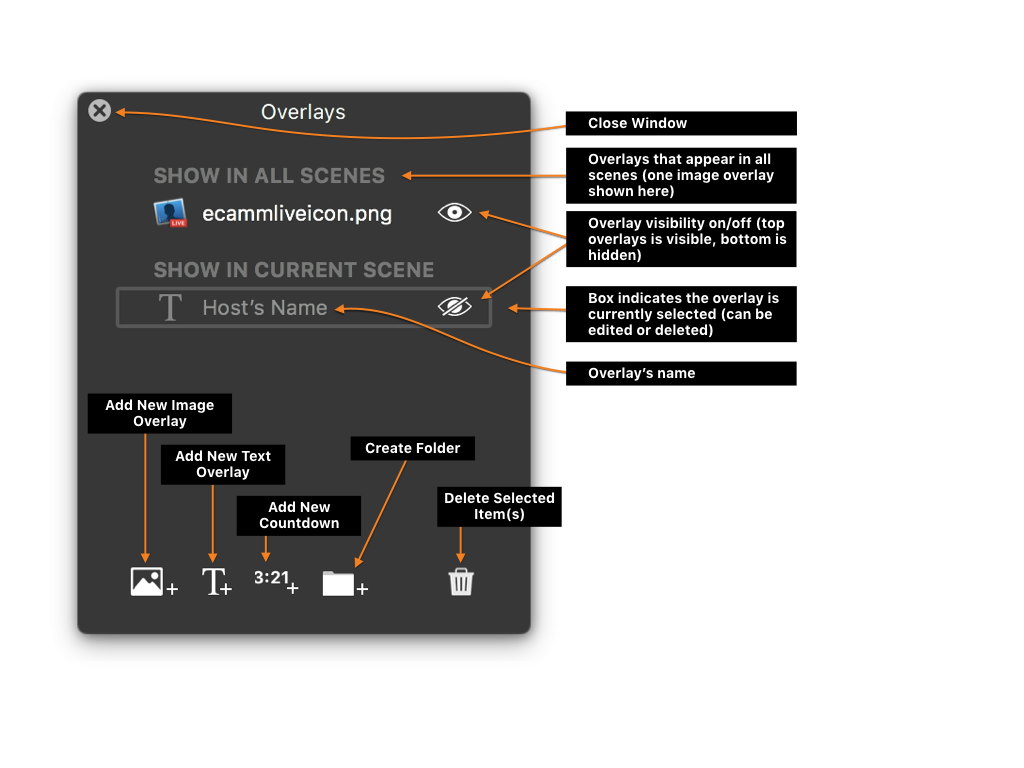
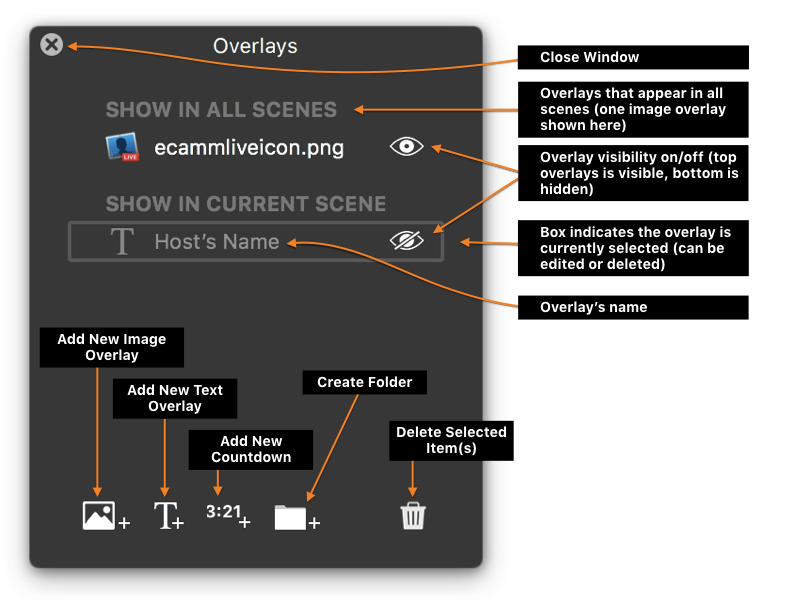
Mostly link repairs (after manual pages changed), some image improvements.

diff --git a/docs/_ecamm-live-first-facebook-live/005-second-broadcast-overlays-scenes.md b/docs/_ecamm-live-first-facebook-live/005-second-broadcast-overlays-scenes.md
@@ -23,11 +23,11 @@ Let's make 3 Scenes for your broadcast, with a few Overlays each.
 
 Open your Scenes window if it's not already visible. At the top of your display, select <samp>Scenes</samp> menu ➝ <samp>Show Scenes Window</samp>. There is a default scene available. You can rename it by clicking directly on the Scene name twice. Give your Scene an obvious, unique name like "Introduction". Clear Scene names are useful since you'll be selecting them on the fly in front of an audience. You want that to be as easy as possible.
 
-![Figure\: The Scenes Window with scenes listed.](/assets/img/scenes-window.png "The Scenes Window"){:width="400px"}
+[![Figure\: The Scenes Window with tools labeled.](/assets/img/scenes-window-annotated.png "The Scenes Window Annotated")](/assets/img/scenes-window-annotated.png)
 
 Scenes can be blank, but most Scenes will have at least one Overlay. So let's create an Overlay with our name. Open your Overlays window if it's not already visible. At the top of your display, select <samp>Overlays</samp> ➝ <samp>Show Overlays Window</samp>.
 
-![Figure\: The Overlays Window with overlays listed.](/assets/img/overlays-window.png "The Scenes Window"){:width="400px"}
+[![Figure\: The Overlays Window with tools labeled.](/assets/img/overlays-window-annotated.png "The Overlays Window Annotated")](/assets/img/overlays-window-annotated.png)
 
 At the bottom of the Overlays window, click the {% inlineicon addtext 20 graybutton %}Add Text Overlay{% endinlineicon %} New Text Overlay button. A style sheet appears over the Main Window. Type your name into the Text field. Experiment with a few style options, like typeface and color. Click <samp>Add</samp> when you're ready.
 

diff --git a/docs/_ecamm-live-first-facebook-live/006-recap.md b/docs/_ecamm-live-first-facebook-live/006-recap.md
@@ -9,6 +9,6 @@ First, consider the logistics of where and when you plan to broadcast within Fac
 
 Second, you can add another degree of polish to your broadcast with Overlays. Figuring them out ahead of time, and then arranging them within thoughtful Scenes allows you to navigate through your broadcast with a minimum of effort. This leaves more attention and energy for making your performance on the stream the best it can be.
 
-Remember, [our Ecamm Live Manual](/ecamm-live-manual/001-introduction) is stocked with a lot more detail, and it's always available.
+Remember, [our Ecamm Live Manual](/ecamm-live-manual/001-welcome) is stocked with a lot more detail, and it's always available.
 
 Let us know about your experience with this tutorial. Was it helpful? Did you have a problem or find an error? [Please reach out with your feedback.](/feedback/index/) We are always eager to hear from our customers.

diff --git a/docs/_ecamm-live-first-facebook-live/002-before-you-broadcast.md b/docs/_ecamm-live-first-facebook-live/002-before-you-broadcast.md
@@ -6,7 +6,7 @@ At the bottom of the Main Window, in the <samp>Destination</samp> menu, select <
 
 ![Figure\: Destination Menus Options for Facebook labeled](/assets/img/facebook-destination-menus.png "Destination Options for Facebook"){:width="400px"}
 
-If you're logged into Facebook via Ecamm Live already, and your button reads "Go Live", skip to the next section for more about [Setting Where and to Whom You're Broadcasting]().
+If you're logged into Facebook via Ecamm Live already, and your button reads "Go Live", skip to the next section for more about [Setting Where and to Whom You're Broadcasting](#setting-where-and-to-whom-youre-broadcasting).
 
 If you haven’t logged into Facebook through Ecamm Live yet, now is the time. Click the big blue <samp class="blue">Login</samp> button, and follow through the prompts to connect the app to Facebook.
 

diff --git a/docs/_ecamm-live-first-facebook-live/004-after-broadcast.md b/docs/_ecamm-live-first-facebook-live/004-after-broadcast.md
@@ -12,5 +12,5 @@ By default, Ecamm Live creates a recording of every broadcast you produce throug
 
 You can find your local video recordings any time. Under the <samp>Recording</samp> Menu ➝ <samp>Show Recordings</samp>. If the default location of the recordings folder isn't ideal for you, <samp>Recording</samp> menu ➝ <samp>Choose Recordings Folder</samp>. If you've previously made recordings, choosing a new recordings folder will not move the past recordings or folder.
 
-_See also:_ [The Recordings Section of our Manual](/ecamm-live-manual/008-local-recordings)
+_See also:_ [The Recordings Section of our Manual](/ecamm-live-manual/010-local-recordings)
 {:.notice}
